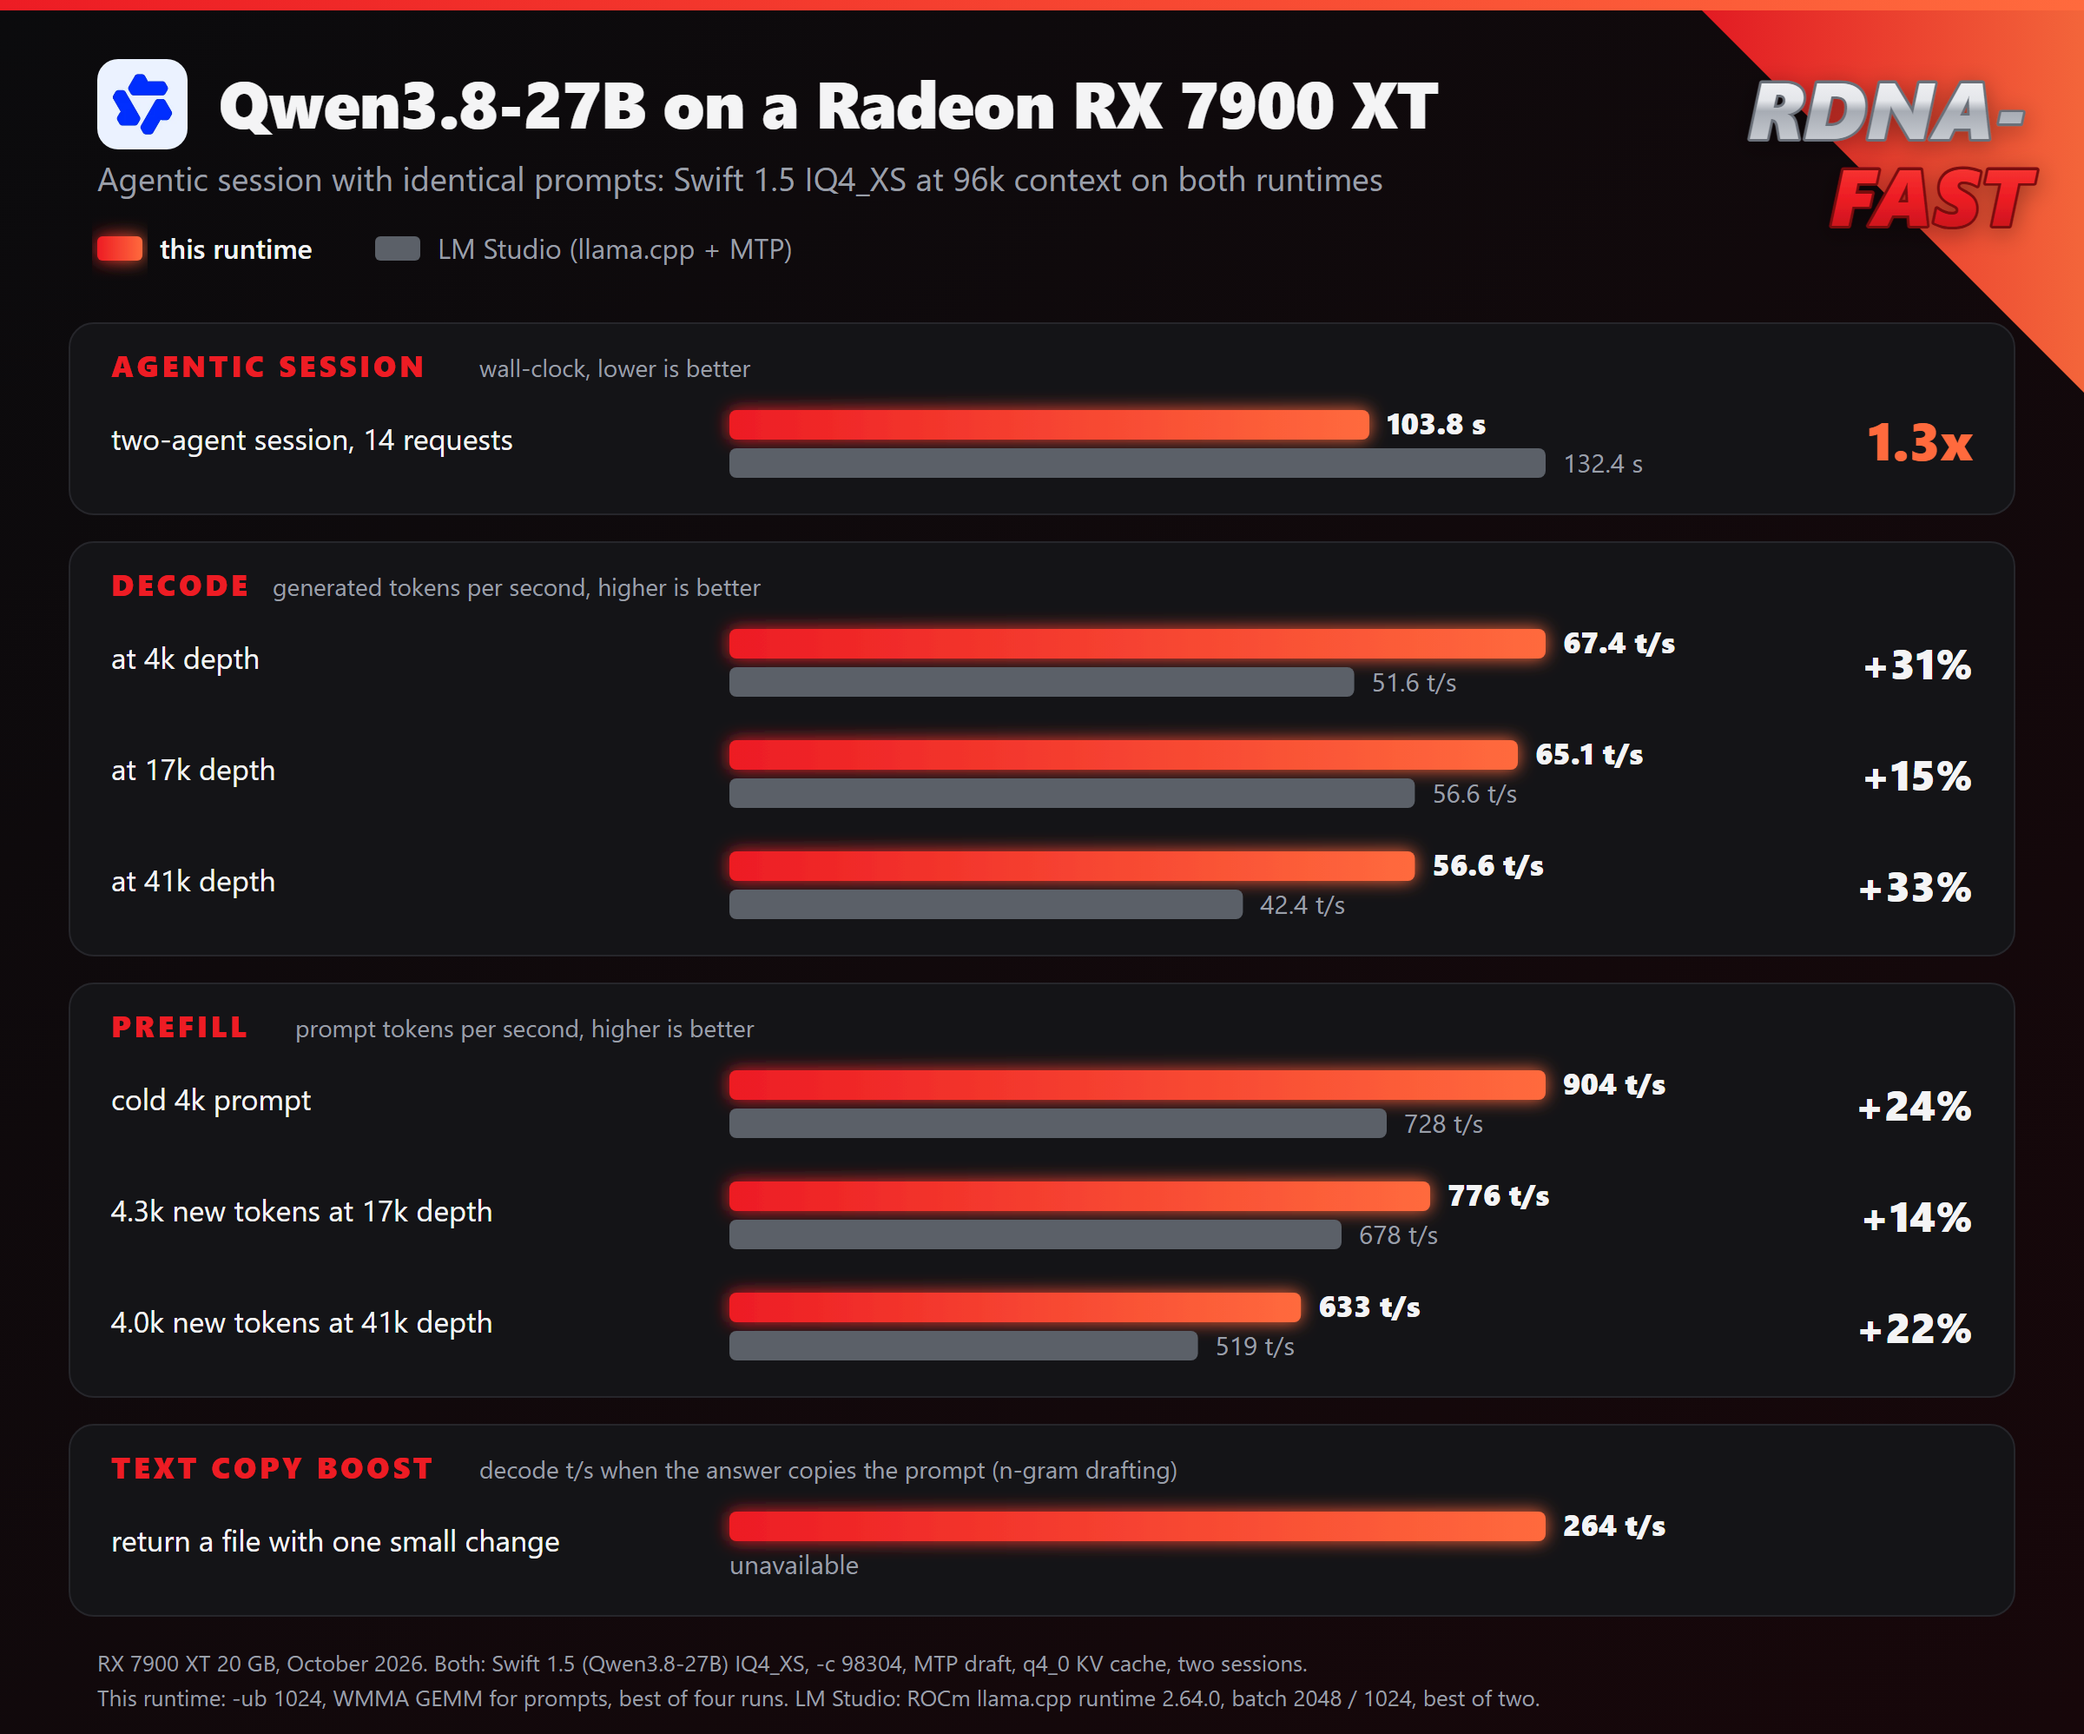
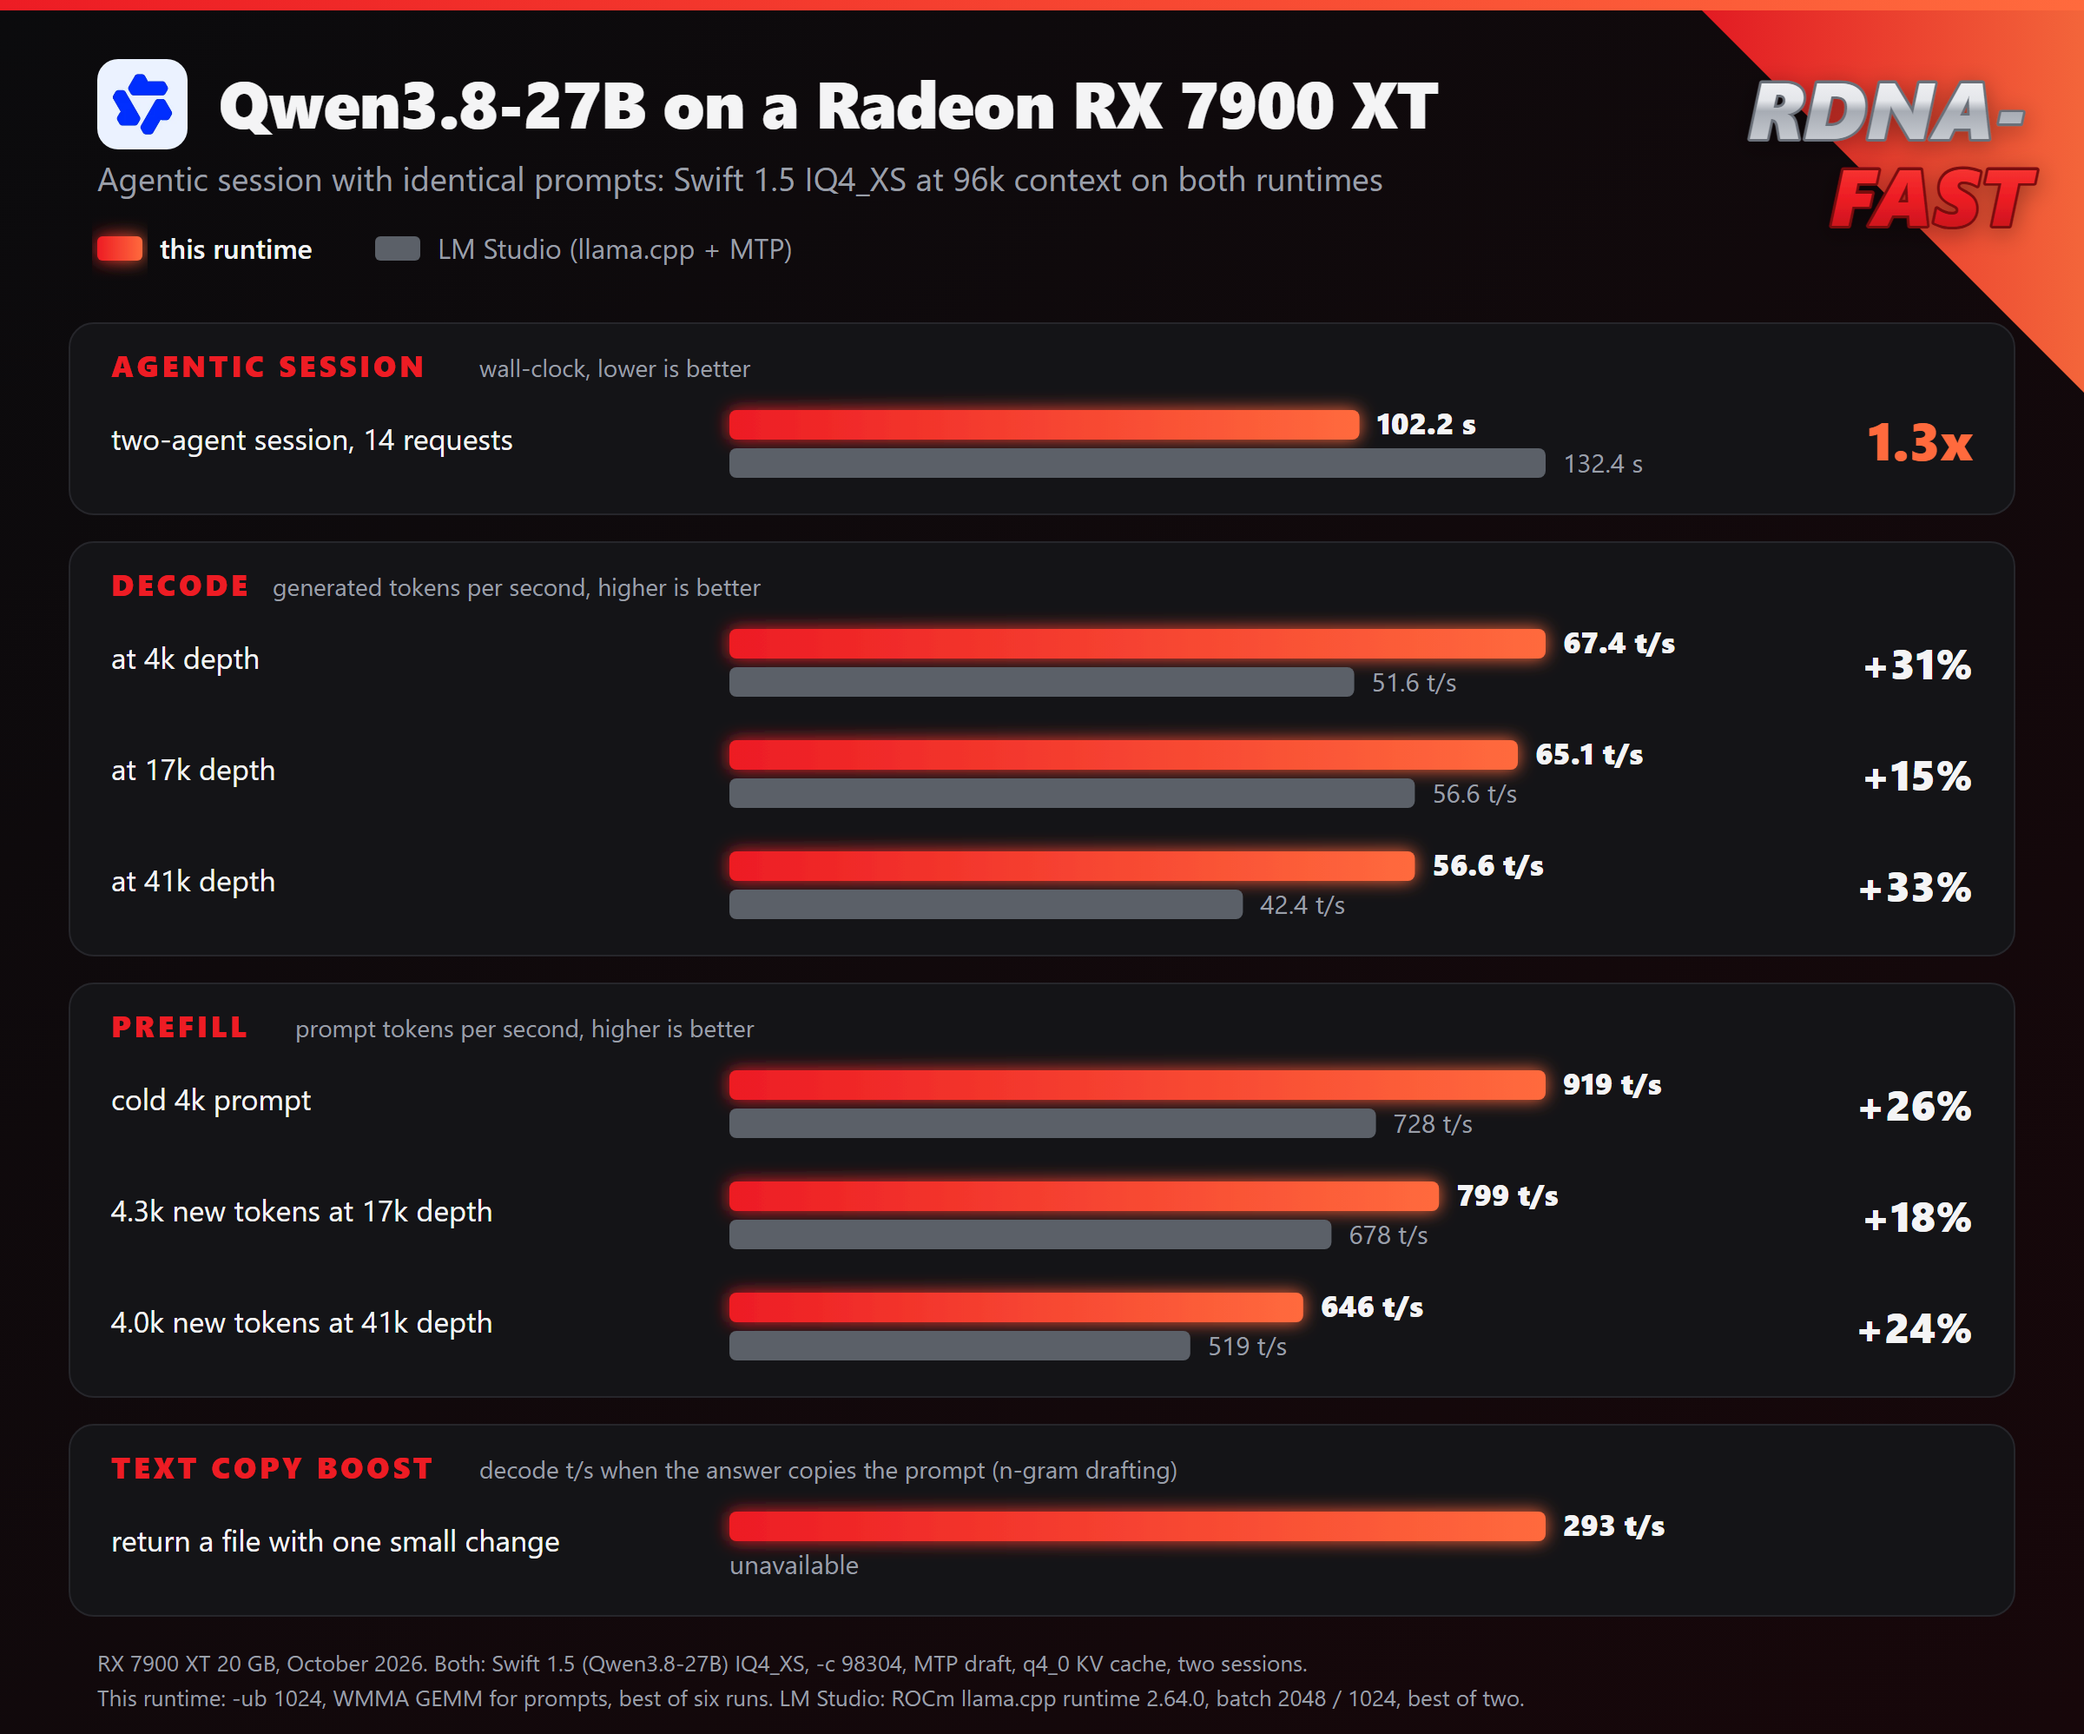
README: speed numbers with the F32 skinny kernel, best of six runs
Two more chart runs on live production (main 0810eedd9, build 12674): sessions
103.2 / 102.2 s, prefill 919 / 799 / 646 t/s, code edits up to 292.7 t/s (the
49-row n-gram verify pass no longer goes through rocBLAS for the F32 gate
projections). Table, highlights, quant row and chart now carry the best of the
six runs per value: session 102.2 s, prefill 919 / 799 / 646, decode 67.4 /
65.1 / 56.6 (unchanged), code edit 293.

diff --git a/README.md b/README.md
@@ -12,12 +12,12 @@ FP4/FP6 weight formats) and [llama.cpp](https://github.com/ggml-org/llama.cpp).
 ## Highlights
 
 - **Faster agent loops than LM Studio on the same card.** With the same model,
-  quant and context, a scripted two-agent session finishes in 104 s instead of
+  quant and context, a scripted two-agent session finishes in 102 s instead of
   132 s. [Numbers](#speed)
 
 - **Multi-token prediction.** The model's own MTP head drafts tokens ahead: up
   to 54 t/s on prose and 88 t/s on code. When an answer repeats text from the
-  prompt, as code edits do, n-gram drafting copies it at up to 264 t/s.
+  prompt, as code edits do, n-gram drafting copies it at up to 293 t/s.
 
 - **Prompts on the matrix cores.** Prompt processing runs on RDNA3's WMMA units
   through [rocm_wmma_gemm](https://github.com/adelj88/rocm_wmma_gemm) by Adel
@@ -67,21 +67,21 @@ grows from 4k to 41k tokens, a 10k-token worker is called twice in between):
 
 | | LM Studio + MTP draft | this runtime |
 |---|---:|---:|
-| **the session, wall-clock** | **132 s** | **104 s** |
-| prefill t/s, cold 4k prompt | 728 | 904 |
-| prefill t/s, 4.3k new tokens at 17k depth | 678 | 776 |
-| prefill t/s, 4.0k new tokens at 41k depth | 519 | 633 |
+| **the session, wall-clock** | **132 s** | **102 s** |
+| prefill t/s, cold 4k prompt | 728 | 919 |
+| prefill t/s, 4.3k new tokens at 17k depth | 678 | 799 |
+| prefill t/s, 4.0k new tokens at 41k depth | 519 | 646 |
 | decode t/s at 4k depth | 51.6 | 67.4 |
 | decode t/s at 17k depth | 56.6 | 65.1 |
 | decode t/s at 41k depth | 42.4 | 56.6 |
-| decode t/s, text copy boost: code edit that copies the prompt | unavailable | 264 |
+| decode t/s, text copy boost: code edit that copies the prompt | unavailable | 293 |
 
 <sub>October 2026. Both run Swift 1.5 IQ4_XS at `-c 98304` with MTP drafting,
 flash attention, a q4_0 KV cache and two sessions, the best run for each value
-(LM Studio: two runs, this runtime: four). LM Studio is its ROCm llama.cpp
+(LM Studio: two runs, this runtime: six). LM Studio is its ROCm llama.cpp
 runtime 2.64.0 with batch 2048 / 1024; this runtime runs the quick start below
 (`-ub 1024`). The edit row is the text copy boost, n-gram drafting, the best of
-six edits; LM Studio cannot run it, as its API does not switch Swift 1.5's
+nine edits; LM Studio cannot run it, as its API does not switch Swift 1.5's
 thinking off.</sub>
 
 The same session with each quant we tested:
@@ -90,14 +90,14 @@ The same session with each quant we tested:
 |---|---:|---:|---:|---:|---:|---:|
 | [Q4_K_M](https://huggingface.co/ukisai/Swift-1.5-Qwen3.8-27B-GGUF/blob/main/Swift-1.5-Qwen3.8-27B-Q4_K_M.gguf)\* | 17.4 GB | 146.8 s | 1,211 s (spill) | 408 / 548 / 431 | 50.6 / 50.8 / 48.2 | 238 |
 | [Q4_K_S](https://huggingface.co/ukisai/Swift-1.5-Qwen3.8-27B-GGUF/blob/main/Swift-1.5-Qwen3.8-27B-Q4_K_S.gguf) | 16.4 GB | 112.6 s | 1,139 s (spill) | 889 / 769 / 616 | 49.2 / 51.7 / 48.8 | 247 |
-| [IQ4_XS](https://huggingface.co/ukisai/Swift-1.5-Qwen3.8-27B-GGUF/blob/main/Swift-1.5-Qwen3.8-27B-IQ4_XS.gguf) | 15.5 GB | 103.8 s | 132.4 s | 904 / 776 / 633 | 67.4 / 65.1 / 56.6 | 264 |
+| [IQ4_XS](https://huggingface.co/ukisai/Swift-1.5-Qwen3.8-27B-GGUF/blob/main/Swift-1.5-Qwen3.8-27B-IQ4_XS.gguf) | 15.5 GB | 102.2 s | 132.4 s | 919 / 799 / 646 | 67.4 / 65.1 / 56.6 | 293 |
 | [ROCmFP4-FP6](docs/rocmfpx/swift-1.5-qwen3.8-27b-rocmfp4-fp6.md) | 16.1 GB | 104.5 s | | 923 / 798 / 634 | 60.2 / 56.4 / 58.5 | 243 |
 
 <sub>\* At 64k (`-c 65536`) and `-ub 512`: the smaller context and prompt
 batches keep Q4_K_M's spill into system RAM down while staying above Hermes'
 64,000-token minimum. The other quants run at 96k with `-ub 1024`. Prefill and
 decode are this runtime's, in the session above; the better of two runs (IQ4_XS:
-the best of four, Q4_K_M: one). LM Studio's Q4_K_S and Q4_K_M sit at the edge of
+the best of six, Q4_K_M: one). LM Studio's Q4_K_S and Q4_K_M sit at the edge of
 the card's memory and read every prompt again in full. ROCmFP4-FP6 is a ROCmFPX
 format, which LM Studio does not load.</sub>
 
@@ -178,7 +178,7 @@ Flags:
 | `--no-mmproj-offload` | the 0.9 GB vision projector was the whole paged share at two slots. Images cost 7-12 s to the first token instead of 3-5 s. |
 | `-ub 1024` | prefill +6% at 17k and +11% at 41k over 256, for 0.3 GB more VRAM; 512 gives +4% and +8% for 0.1 GB. Decode does not change with it (55.7 against 56.0 t/s on identical text). The WMMA GEMM for prompts takes batches of 512 tokens or more only, so at `-ub 256` it never runs. `-ub 2048` does not fit beside `-c 106496` on 20 GB (2.3 GB paged, prefill falls to 162 t/s); at `-c 65536` it fits but gains only 1-2% on cold prompts (949 / 836 against 932 / 821 t/s at 17k / 41k). |
 | `--spec-type draft-mtp`, `--spec-draft-n-max 4` | +45% decode on prose, +112% on code, for about 0.7 GB of VRAM and 3% of prefill speed. The draft head has its own KV cache; for prompt tokens only its K and V are computed, nothing else of the block is ever read. |
-| `--spec-type "...,ngram-map-k4v"` | text copy boost: n-gram drafting in front of MTP. Where the last tokens repeat an earlier place of the context, the continuation found there is drafted, otherwise MTP drafts as before. Each match first makes a 4-token probe that is not sent: MTP drafts that pass, and the probe is scored against what comes out. Once six probes in a row would have been accepted in full, n-gram drafts of up to 48 tokens replace MTP until one is not accepted in full, so a match that is only a phrase or a path costs neither a pass nor a checkpoint. On two days of agent traffic (783 requests) this saved 4.6-6.0% of decode time, and 5-6% of the requests came out slower, against 12-40% when the probes were sent. Code edits that copy the prompt run at up to 263 t/s. Quote the value in a .cmd file: cmd splits arguments at commas. |
+| `--spec-type "...,ngram-map-k4v"` | text copy boost: n-gram drafting in front of MTP. Where the last tokens repeat an earlier place of the context, the continuation found there is drafted, otherwise MTP drafts as before. Each match first makes a 4-token probe that is not sent: MTP drafts that pass, and the probe is scored against what comes out. Once six probes in a row would have been accepted in full, n-gram drafts of up to 48 tokens replace MTP until one is not accepted in full, so a match that is only a phrase or a path costs neither a pass nor a checkpoint. On two days of agent traffic (783 requests) this saved 4.6-6.0% of decode time, and 5-6% of the requests came out slower, against 12-40% when the probes were sent. Code edits that copy the prompt run at up to 293 t/s. Quote the value in a .cmd file: cmd splits arguments at commas. |
 | `--no-spec-ngram-map-ramp` | not set here. Full-length n-gram drafts (48 tokens) from the first match: 268 t/s on code edits and 180 t/s on the copy at 41k, but slower on answers that only share phrases with the context, where a wrong long draft costs a checkpoint restore and a replay pass. |
 | `--ctx-checkpoints 8` | kept in host RAM, ~200 MiB each. When the list is full, the one whose removal leaves the smallest gap is dropped; the one at the first user message never is. |
 | `--cache-disk` | conversations and their checkpoints are kept on SSD. See [The SSD prompt cache](#the-ssd-prompt-cache). |
